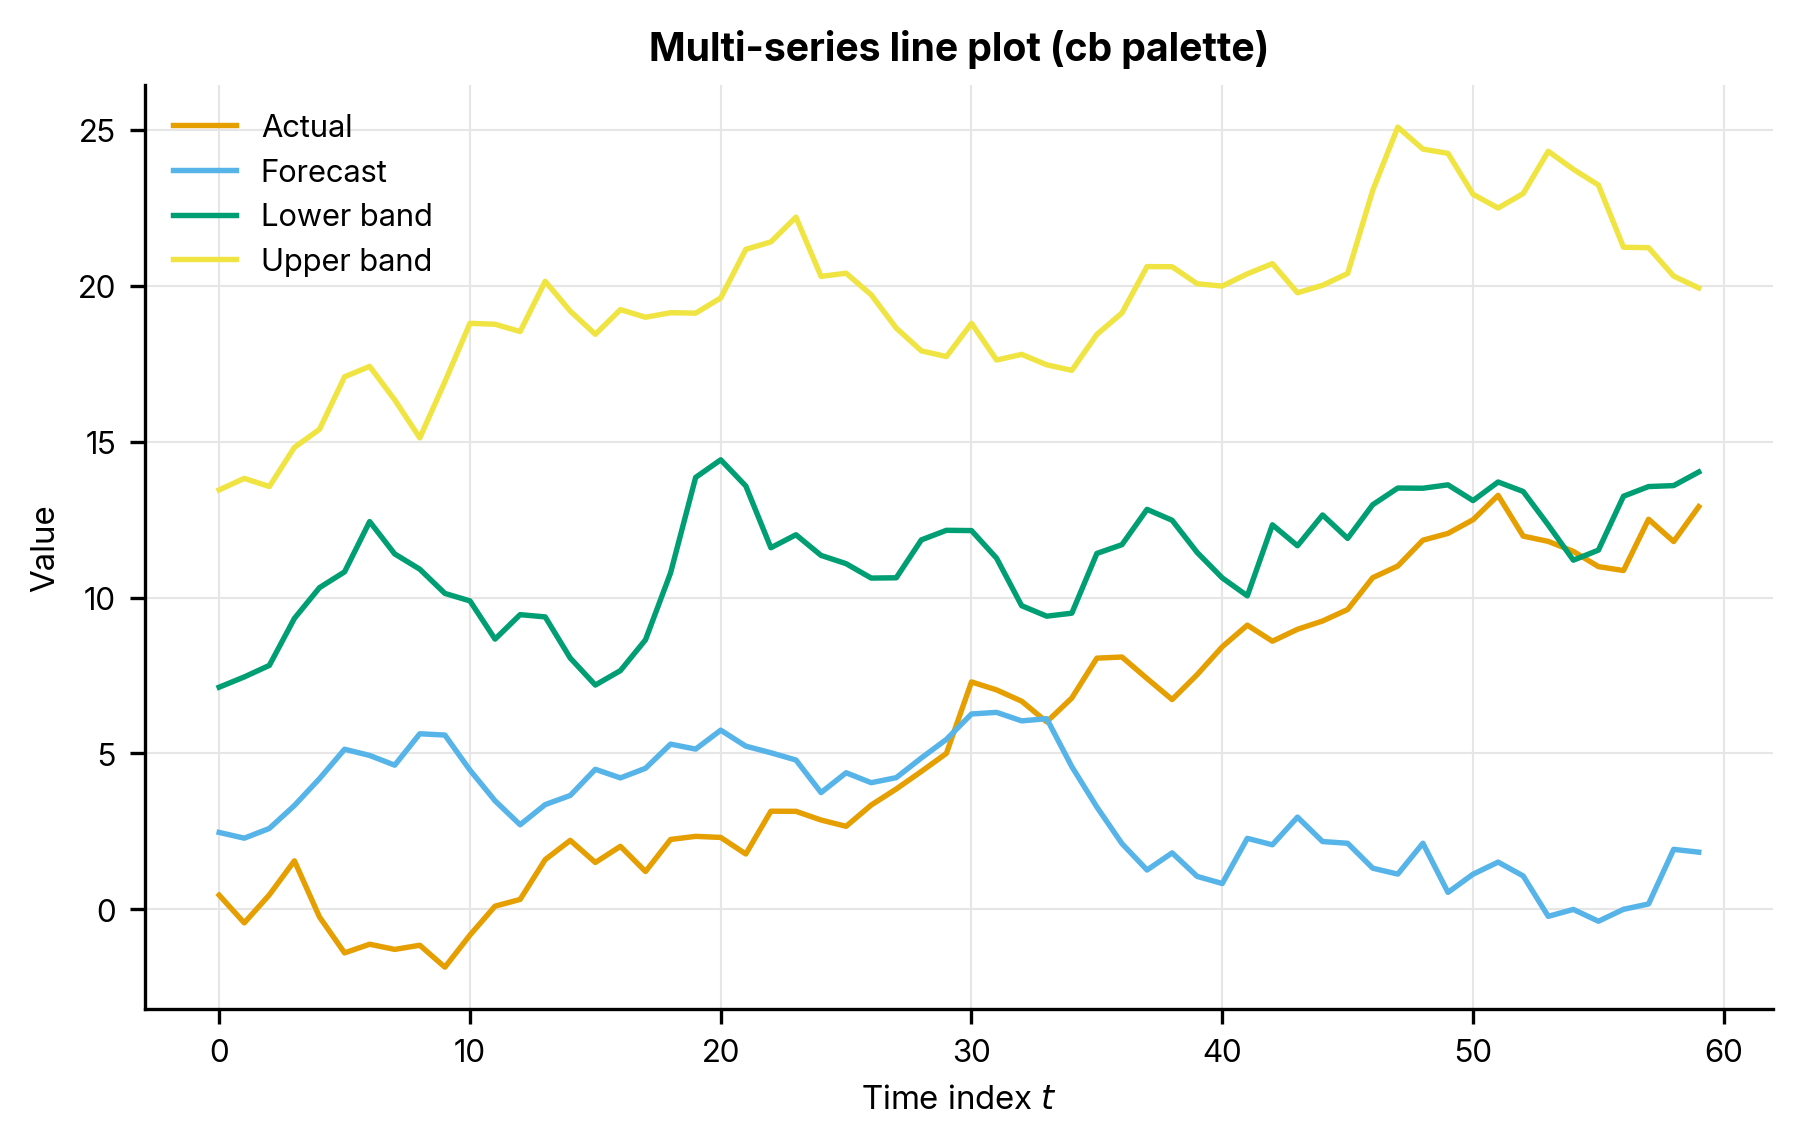
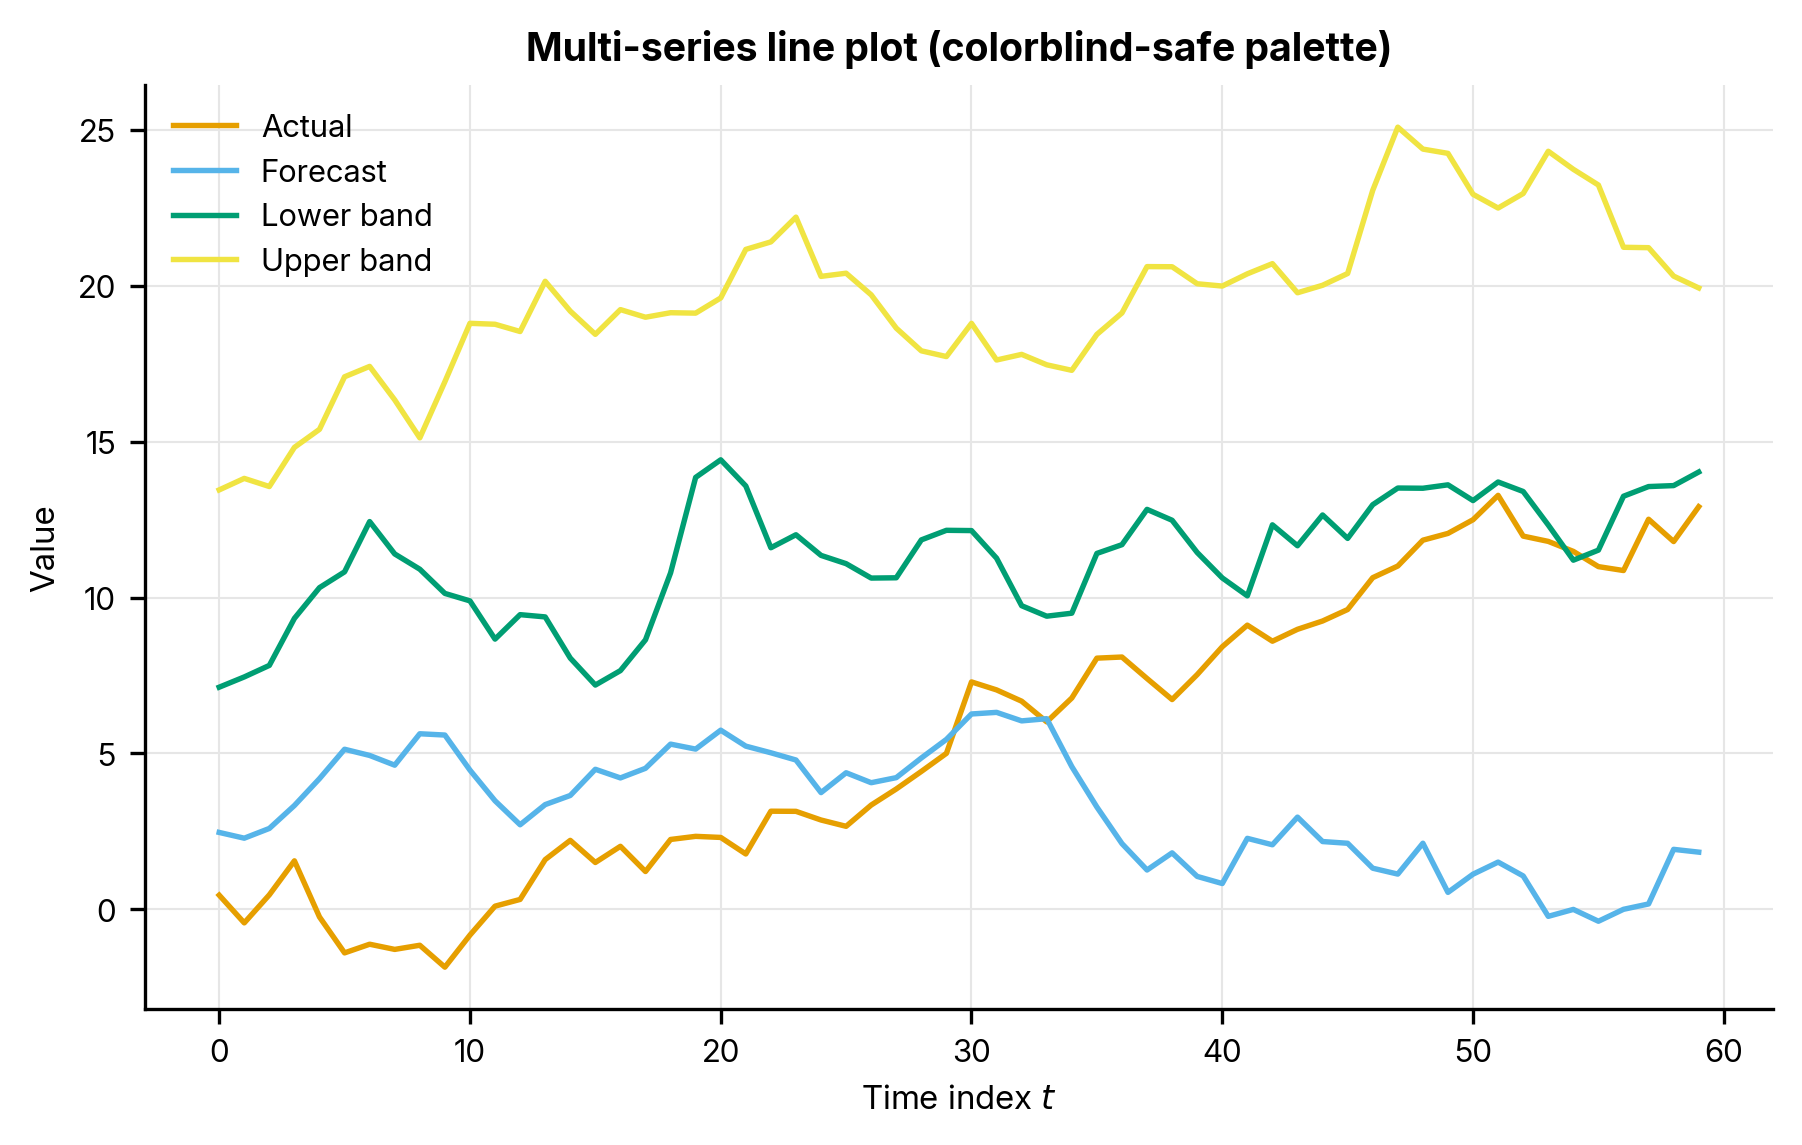
Address PR review: SSOT ramp, honest figure labels, doc drift
- Centralize the Cerulean sequential ramp in brand.py (cerulean_cmap /
  CERULEAN_RAMP); generation script imports it instead of hardcoding brand
  hex (#007BA7/#003D5C). Catalog now lists the ramp anchors.
- Figures: reader-facing palette names in titles ("colorblind-safe palette"
  not "cb"); relabel the illustrative heatmap axes Column/Row and colorbar
  "Value (illustrative)" so it no longer implies a correlation matrix.
- cb line-plot caption made self-contained (names series and axes).
- Quote |Yes|/|No| edge labels in the showcase and worked-example flowcharts
  for consistency with the unconditional quote-every-label rule.
- Fix stale "11 pt" figure-type claim in extra.css and DESIGN-SYSTEM.md
  (font.size is now 7.5); reword to be size-agnostic.

Changed region(s): [[0.2797, 0.0306, 0.7769, 0.0611]]

diff --git a/docs/stylesheets/extra.css b/docs/stylesheets/extra.css
@@ -573,8 +573,9 @@ code {
    Matplotlib figures are authored at 7 in wide. Browsers ignore the 300-dpi
    metadata for layout and would let the raster fill the whole content column,
    scaling its embedded type up past the body text on wide screens. Cap the
-   displayed width to the figure's design width (7 in ~= 42rem) so its 11 pt
-   type renders at body size, and centre it. Stays responsive via min(). */
+   displayed width to the figure's design width (7 in ~= 42rem) so its type
+   renders at the authored size rather than scaling up past the body text, and
+   centre it. Stays responsive via min(). */
 .md-typeset img {
   max-width: min(100%, 42rem);
   display: block;

diff --git a/scripts/generate_showcase_figures.py b/scripts/generate_showcase_figures.py
@@ -22,9 +22,11 @@ import brand  # noqa: E402
 
 import numpy as np  # noqa: E402
 import matplotlib.pyplot as plt  # noqa: E402
-from matplotlib.colors import LinearSegmentedColormap  # noqa: E402
 
 OUT = ROOT / "docs" / "assets" / "figures"
+
+# Reader-facing palette names, keyed by the internal palette argument.
+_PALETTE_TITLE = {"brand": "brand palette", "cb": "colorblind-safe palette"}
 
 
 def line_plot(path: Path, palette: str) -> None:
@@ -35,7 +37,7 @@ def line_plot(path: Path, palette: str) -> None:
     for offset, label in enumerate(["Actual", "Forecast", "Lower band", "Upper band"]):
         series = np.cumsum(rng.normal(0.15, 1.0, size=t.size)) + offset * 4
         ax.plot(t, series, label=label)
-    ax.set_title(f"Multi-series line plot ({palette} palette)")
+    ax.set_title(f"Multi-series line plot ({_PALETTE_TITLE[palette]})")
     ax.set_xlabel("Time index $t$")
     ax.set_ylabel("Value")
     ax.legend()
@@ -45,17 +47,15 @@ def line_plot(path: Path, palette: str) -> None:
 
 def heatmap(path: Path) -> None:
     brand.use_brand_style()
-    cmap = LinearSegmentedColormap.from_list(
-        "cerulean", ["#FFFFFF", "#007BA7", "#003D5C"]
-    )
+    cmap = brand.cerulean_cmap()
     rng = np.random.default_rng(7)
     data = rng.random((12, 12))
     fig, ax = plt.subplots()
     im = ax.imshow(data, cmap=cmap, aspect="auto")
     ax.set_title("Sequential heatmap (Cerulean ramp)")
-    ax.set_xlabel("Lag")
-    ax.set_ylabel("Series")
-    fig.colorbar(im, ax=ax, label="Intensity")
+    ax.set_xlabel("Column")
+    ax.set_ylabel("Row")
+    fig.colorbar(im, ax=ax, label="Value (illustrative)")
     fig.savefig(path)
     plt.close(fig)
 

diff --git a/brand.py b/brand.py
@@ -36,6 +36,18 @@ _CB_CYCLE = [
     "#0072B2", "#D55E00", "#CC79A7", "#000000",
 ]
 
+# Single-hue Cerulean ramp for sequential data (heatmaps, densities): white ->
+# Cerulean -> deep Cerulean. The endpoints are the brand's --color-cerulean and
+# --color-cerulean-deep tokens; this is the single Python-side home for the ramp
+# so figure scripts import it rather than re-hardcoding brand hex.
+CERULEAN_RAMP = ["#FFFFFF", "#007BA7", "#003D5C"]
+
+
+def cerulean_cmap():
+    """Return the single-hue Cerulean sequential colormap (white -> deep cerulean)."""
+    from matplotlib.colors import LinearSegmentedColormap
+    return LinearSegmentedColormap.from_list("cerulean", CERULEAN_RAMP)
+
 
 def use_brand_style(palette: str = "brand") -> None:
     """Apply the manual's matplotlib style and colour cycle.

diff --git a/DESIGN-SYSTEM.md b/DESIGN-SYSTEM.md
@@ -349,17 +349,17 @@ graph TD
     START(["Time-stamped data"]) --> PLOT["Plot series<br/>Inspect raw ACF"]
     PLOT --> ROOT_TEST["Run ADF + KPSS"]
     ROOT_TEST --> UNITROOT{"Unit root?"}
-    UNITROOT -->|Yes| DIFF["Difference the series"]
-    UNITROOT -->|No| FEATURES["Identify structure:<br/>seasonality, trend,<br/>regime breaks"]
+    UNITROOT -->|"Yes"| DIFF["Difference the series"]
+    UNITROOT -->|"No"| FEATURES["Identify structure:<br/>seasonality, trend,<br/>regime breaks"]
     DIFF --> FEATURES
     FEATURES --> FIT["Fit regression by OLS:<br/>dummies, trend, flags"]
     FIT --> DIAG["Residual diagnostics:<br/>ACF + Ljung-Box"]
     DIAG --> RESID{"Residuals i.i.d.?"}
-    RESID -->|No| GOAL{"Goal?"}
-    RESID -->|Yes| SQ_TEST["Test squared residuals"]
+    RESID -->|"No"| GOAL{"Goal?"}
+    RESID -->|"Yes"| SQ_TEST["Test squared residuals"]
     SQ_TEST --> SQACF{"Variance<br/>autocorrelated?"}
-    SQACF -->|No| OLSOK["Model: linear regression<br/>with i.i.d. errors<br/>Estimator: OLS"]
-    SQACF -->|Yes| GARCH["Model: regression mean<br/>+ GARCH variance<br/>Estimator: joint MLE"]
+    SQACF -->|"No"| OLSOK["Model: linear regression<br/>with i.i.d. errors<br/>Estimator: OLS"]
+    SQACF -->|"Yes"| GARCH["Model: regression mean<br/>+ GARCH variance<br/>Estimator: joint MLE"]
     GOAL -->|"Inference,<br/>mild autocorrelation"| HAC["Model: linear regression<br/>Estimator: OLS<br/>Inference: HAC SEs"]
     GOAL -->|"Forecasting or<br/>persistent autocorrelation"| TS["Model: regression + ARMA errors<br/>Estimator: MLE"]
 
@@ -430,7 +430,7 @@ Tables receive the same predetermined treatment as figures. The book uses five t
 
 Static figures share one palette and one matplotlib style so the book's charts are visually consistent.
 
-**Default palette (brand-derived).** The categorical cycle is Cerulean `#007BA7`, Burgundy `#800020`, Thistle-dark `#9B7FA7`, Navajo-dark `#C9A55E`, and Sunset `#B87D6C`. Sequential data uses a single-hue Cerulean ramp. Semantic encoding uses sage, amber, and Burgundy — the same `good`, `escalate`, and `problem` fills used in flowcharts and decision matrices.
+**Default palette (brand-derived).** The categorical cycle is Cerulean `#007BA7`, Burgundy `#800020`, Thistle-dark `#9B7FA7`, Navajo-dark `#C9A55E`, and Sunset `#B87D6C`. Sequential data uses a single-hue Cerulean ramp (white → `#007BA7` → `#003D5C`, exposed as `brand.cerulean_cmap()`). Semantic encoding uses sage, amber, and Burgundy — the same `good`, `escalate`, and `problem` fills used in flowcharts and decision matrices.
 
 **Colorblind-safe categorical cycle (Okabe–Ito).** `#E69F00`, `#56B4E9`, `#009E73`, `#F0E442`, `#0072B2`, `#D55E00`, `#CC79A7`, `#000000`.
 
@@ -478,7 +478,7 @@ brand.use_brand_style("cb")    # colorblind-safe (Okabe-Ito) palette
 
 The helper drives the book's own figure-generation pipeline, which produces the committed PNG and SVG figures. Code copy-pasted by a reader is illustrative and is not expected to import this module.
 
-**Display width.** Figures are authored at 7 inches wide. Browsers ignore the 300-dpi metadata for layout, so an unconstrained raster fills the whole content column and scales its embedded type up past the body text on wide screens. The figure rule in `extra.css` therefore caps the *displayed* width to the design width (`max-width: min(100%, 42rem)`, ~7 in) and centres the image, so the figure's 11 pt type renders at body size. This is a display-layer rule and does not change the figure files; regeneration is unaffected.
+**Display width.** Figures are authored at 7 inches wide. Browsers ignore the 300-dpi metadata for layout, so an unconstrained raster fills the whole content column and scales its embedded type up past the body text on wide screens. The figure rule in `extra.css` therefore caps the *displayed* width to the design width (`max-width: min(100%, 42rem)`, ~7 in) and centres the image, so the figure's type renders at its authored size rather than scaling up past the body text on wide screens. This is a display-layer rule and does not change the figure files; regeneration is unaffected.
 
 **Mermaid.** Diagrams use the `classDef` sets from the decision-flowchart notation above, replacing any ad-hoc `fill:` styling.
 

diff --git a/docs/design-system-showcase.md b/docs/design-system-showcase.md
@@ -123,8 +123,8 @@ Brand palette:
 graph TD
     START(["Time-stamped data"]) --> ROOT_TEST["Run ADF + KPSS"]
     ROOT_TEST --> UNITROOT{"Unit root?"}
-    UNITROOT -->|Yes| DIFF["Difference the series"]
-    UNITROOT -->|No| OK["Model: OLS<br/>Estimator: OLS"]
+    UNITROOT -->|"Yes"| DIFF["Difference the series"]
+    UNITROOT -->|"No"| OK["Model: OLS<br/>Estimator: OLS"]
 
     classDef terminator fill:#E6F2F7,stroke:#007BA7,color:#1A1A1A;
     classDef process fill:#FFFFFF,stroke:#5A6B73,color:#1A1A1A;
@@ -144,8 +144,8 @@ Colorblind-safe palette (same diagram):
 graph TD
     START(["Time-stamped data"]) --> ROOT_TEST["Run ADF + KPSS"]
     ROOT_TEST --> UNITROOT{"Unit root?"}
-    UNITROOT -->|Yes| DIFF["Difference the series"]
-    UNITROOT -->|No| OK["Model: OLS<br/>Estimator: OLS"]
+    UNITROOT -->|"Yes"| DIFF["Difference the series"]
+    UNITROOT -->|"No"| OK["Model: OLS<br/>Estimator: OLS"]
 
     classDef terminator fill:#56B4E9,stroke:#005A7A,color:#000000;
     classDef process fill:#FFFFFF,stroke:#000000,color:#000000;
@@ -169,7 +169,7 @@ Generated via `brand.py` and the `brand.mplstyle` style. Regenerate with
 
 ![The same multi-series line plot rendered in the colorblind-safe Okabe–Ito palette.](assets/figures/showcase_lines_cb.png)
 
-*Figure: the same plot in the colorblind-safe palette.*
+*Figure: multi-series line plot (Actual, Forecast, Lower band, Upper band) over time index \( t \), in the colorblind-safe Okabe–Ito palette.*
 
 ![Sequential heatmap of a 12 by 12 grid using a single-hue Cerulean colour ramp from white to deep cerulean, with an intensity colour bar.](assets/figures/showcase_heatmap.png)
 
